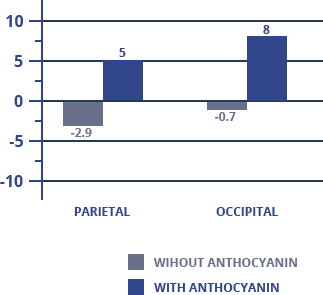
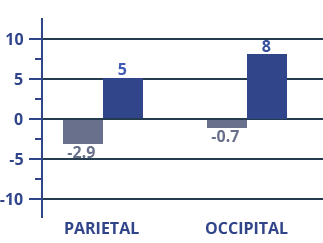
updates to graphs and ingredients
replaced part of graph 2 w/html
padding for ingredients

diff --git a/public/index.html b/public/index.html
@@ -320,7 +320,15 @@
               <h4>MEMORY</h4><img src="/img/graph1.png">
             </div>
             <div class="value col-md-4 col-12 mobile-top-padding">
-              <h4 class="mvalue">GRAY MATTER PERFUSION</h4><img src="/img/graph2.png">
+              <h4 class="mvalue">GRAY MATTER PERFUSION</h4><img src="/img/graph2.png"><br><br>
+              <div class="text-21-wrap">
+                <div class="box-21"></div>
+                <div class="text-21">WITHOUT <a href="#bilberry">ANTHOCYANIN</a></div>
+              </div>
+              <div class="text-22-wrap">
+                <div class="box-22"></div>
+                <div class="text-22">WITH <a href="#bilberry">ANTHOCYANIN</a></div>
+              </div>
             </div>
             <div class="value col-md-4 col-12 mobile-top-padding">
               <h4 class="mvalue">MOTIVATION</h4><img src="/img/graph3.png">
@@ -429,33 +437,62 @@
       <section class="flex-center" id="ingredients">
         <div class="container">
           <div class="row flex-center align-items-start">
-            <div class="col-md-4 col-12 ingredients"><img src="/img/rhodiola-rosea.png">
+            <div class="col-lg-4 col-md-6 col-12 ingredients"><img src="/img/rhodiola-rosea.png">
               <h2>Rhodiola Rosea</h2>
-              <p></p>
-            </div>
-            <div class="col-md-4 col-12 ingredients"><img src="/img/edemame.png">
-              <h2>Alpha-GPC</h2>
-              <p></p>
-            </div>
-            <div class="col-md-4 col-12 ingredients"><img src="/img/theacrine.png">
-              <h2>Theacrine</h2>
-              <p></p>
-            </div>
-          </div>
-          <div class="row flex-center align-items-start ing2">
-            <div class="col-md-4 col-12 ingredients"><img src="/img/anthocyanin.png">
-              <h2>Bilberry Extract</h2>
               <p>
-                Plants rich in anthocyanins are Vaccinium species, such as blueberry, raspberry, cranberry, etc. In a 2017 study, healthy people who consumed Anthocyanin every day for 12 weeks showed improvements in cognitive function, blood flow to the brain, and activation of the brain while carrying out cognitive tests.
-                Anthocyanin is cited as enhancing neuron growth by increasing blood flow to the brain and is a potent antioxidant that has been shown to have particularly positive effects on brain health.
+                Shown in several studies to reduce fatigue, anxiety, and stress response. 
+                This ancient adaptogen has long been used in traditional eastern medical practices for centuries to improve mood and endurance.
+                <a href'https://halcyon.bio/rhodiola'>Learn More</a>
               </p>
             </div>
-            <div class="col-md-4 col-12 ingredients"><img src="/img/rhodiola-rosea.png">
-              <h2>Dopa-XR <sup>TM</sup></h2>
+            <div class="col-lg-4 col-md-6 col-12 ingredients ing-row-padding"><img src="/img/edemame.png">
+              <h2>Alpha-GPC</h2>
+              <p>
+                L-Alpha glycerylphosphorylcholine (α-GPC) L-Alpha glycerylphosphorylcholine (α-GPC) is a natural choline compound made up of choline and glycerophosphate.α-GPC rapidly delivers choline across the 
+                blood–brain barrier and is a precursor of the neurotransmitter acetylcholine, which is associated with memory and learning.<br><br>α-GPC is readily absorbed through oral intake to form free choline. It is able to increase both dopamine and serotonin concentrations in the frontal cortex and cerebellum.         
+                <a href'https://halcyon.bio/alphagpc'>Learn More</a>
+              </p>
             </div>
-            <div class="col-md-4 col-12 ingredients"><img src="/img/huperzine-a.png">
+            <div class="col-lg-4 col-md-6 col-12 ingredients"><img src="/img/theacrine.png">
+              <h2>Theacrine</h2>
+              <p>
+                Shown in a 2016 randomized, double blind, placebo controlled study to improve energy and concentration while decreasing
+                levels of fatigue, anxiety, and irritability. <br><br>Theacrine also increases alertness, attention, and motivation. 
+                Unlike caffeine and other stimulants, recent evidence has shown that people who take theacrine do not develop a 
+                tolerance to its effects, which makes it ideal as a daily nootropic. <a href'https://halcyon.bio/theacrine'>Learn More</a>
+              </p>
+            </div>
+            <div class="col-lg-4 col-md-6 col-12 ingredients ing-row-padding3"><img src="/img/anthocyanin.png">
+              <h2 id="bilberry">Bilberry Extract</h2>
+              <p>Plants rich in anthocyanins are Vaccinium species, such as blueberry, raspberry, cranberry, etc. In a 2017 study, healthy people who consumed Anthocyanin every day for 12 weeks showed improvements in cognitive function, blood flow to the brain, and activation of the brain while carrying out cognitive tests.<br><br>Anthocyanin is cited as enhancing neuron growth by increasing blood flow to the brain and is a potent antioxidant that has been shown to have particularly positive effects on brain health. 
+                <a href'https://halcyon.bio/anthocyanin'>Learn More</a>
+              </p>
+            </div>
+            <div class="col-lg-4 col-md-6 col-12 ingredients"><img src="/img/rhodiola-rosea.png">
+              <h2>Dopa-XR<sup>TM</sup></h2>
+              <p>
+                Designed for daily use, Halcyon's Dopa-XR™ is a patent-pending cognitive enhancement technology based on a microencapsulation system designed to time the release points in the GI tract to maximize performance. 
+                This improves the release profile delivering more sustained effects as these compounds are metabolized in the brain.
+                <br>
+                <br>
+                <strong>Dopa-XR™ takes an already powerful nootropic ingredient, Theacrine,</strong> and extends its release to support wakefulness and various dimensions of cognition for several hours. The result is lasting focus, drive and mental acuity.
+                |Dopa-XR™ activates similar signalling pathways to caffeine, but lasts longer.
+                <br>
+                <br>
+                Research shows our microencapsulated ingredient (Theacrine), is non-habituating, suggesting users do not develop a tolerance to its effects.
+                strong Effects that are extended through our XR release technology include improved memory, attention, and motivation.
+                <a href="https://halcyon.bio/dopa-xr">Learn More </a>
+              </p>
+            </div>
+            <div class="col-lg-4 col-md-6 col-12 ingredients"><img src="/img/huperzine-a.png">
               <h2>Huperzine A</h2>
-              <p></p>
+              <p>
+                A naturally derived nootropic alkaloid compound extracted from Chinese club moss, which has been used for centuries in China as a component in traditional medicine. 
+                The extract has been prescribed for treating Alzheimer's Disease in clinical practice for over thirty years in China. In the USA, Huperzine A is a nutritional supplement for enhancing memory. 
+                <a href'https://halcyon.bio/huperzine-a'>Learn More</a>
+                
+                
+              </p>
             </div>
           </div>
         </div>

diff --git a/public/css/app.css b/public/css/app.css
@@ -3758,6 +3758,7 @@ price .option{
   border:1px solid #324099;
   max-width:360px;
   padding:0.5rem;
+  margin:0 auto;
 }
 .serving-size{
   font-size:12pt;
@@ -4486,11 +4487,21 @@ footer .footer-bottom > *{
   color:White;
   text-align:center;
 }
+#index #ingredients h2 sup{
+  top:-1.5em;
+  font-size:40%;
+}
 #index #ingredients p{
   text-align:left;
 }
 #index #ingredients .ingredients{
   text-align:center;
+}
+#index #ingredients a{
+  color:#f26621 !important;
+  text-decoration:underline;
+  -webkit-text-decoration-color:#fff;
+          text-decoration-color:#fff;
 }
 #index #try-today{
   background-image:url("/img/trytoday.jpg");
@@ -4826,6 +4837,9 @@ footer .footer-bottom > *{
   td:last-child{
     padding-right:10px;
   }
+  #index #ingredients .ing-row-padding{
+    padding-bottom:40px;
+  }
 }
 @media screen and (max-width: 767px){
   .l-header-34{
@@ -4875,6 +4889,47 @@ footer .footer-bottom > *{
   #index #value .mvalue{
     padding-top:20px;
   }
+  #index #value .box-21{
+    display:inline-block;
+    width:15px;
+    height:15px;
+    background:#68708b;
+    margin-bottom:-2px;
+  }
+  #index #value .text-21{
+    color:#68708b;
+    font-size:14px;
+    font-weight:bold;
+    display:inline-block;
+  }
+  #index #value .text-21 a{
+    color:#68708b !important;
+    text-decoration:underline;
+  }
+  #index #value .text-21-wrap{
+    text-align:left;
+    padding-left:30%;
+  }
+  #index #value .box-22{
+    display:inline-block;
+    width:15px;
+    height:15px;
+    background:#31458a;
+    margin-bottom:-2px;
+  }
+  #index #value .text-22{
+    color:#31458a;
+    font-weight:bold;
+    font-size:14px;
+    display:inline-block;
+  }
+  #index #value .text-22 a{
+    text-decoration:underline;
+  }
+  #index #value .text-22-wrap{
+    text-align:left;
+    padding-left:30%;
+  }
   #index #tolerance img{
     margin:0 auto;
   }
@@ -4889,6 +4944,11 @@ footer .footer-bottom > *{
   }
   #index #made-in-usa strong{
     font-size:32px;
+  }
+  #index #ingredients h2{
+    text-decoration:underline;
+    -webkit-text-decoration-color:#f26621;
+            text-decoration-color:#f26621;
   }
   #index #ingredients img{
     display:none;
@@ -4920,9 +4980,6 @@ footer .footer-bottom > *{
   }
   #index #shop #shop-widget .body{
     max-width:280px;
-  }
-  #index #ingredients .ing2{
-    padding-top:40px;
   }
 }
 @media screen and (max-width: 560px){
@@ -5091,6 +5148,11 @@ footer .footer-bottom > *{
 @media screen and (max-width: 500px){
   #index #performance h2{
     font-size:32px;
+  }
+}
+@media screen and (min-width: 768px) and (max-width: 991.98px){
+  #index #ingredients .ing-row-padding3{
+    padding-bottom:40px;
   }
 }
 @media only screen and (max-width: 768px){
